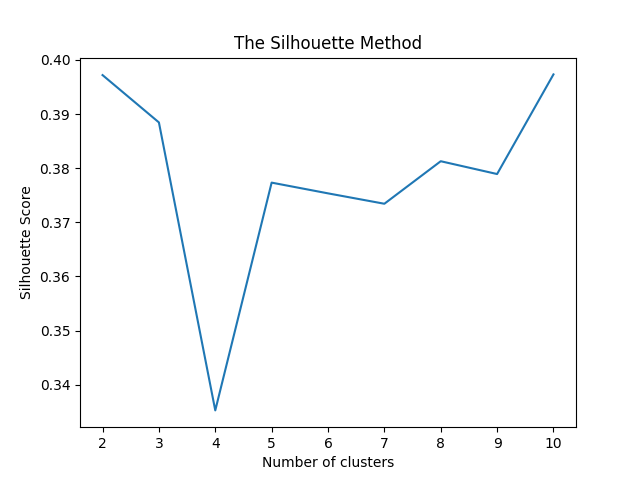
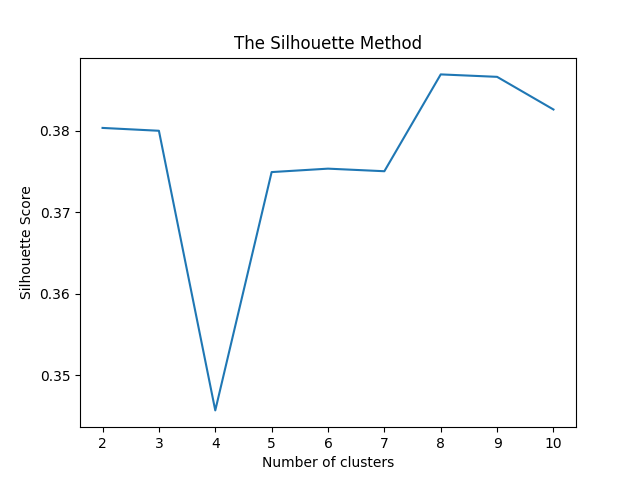
centroids added

diff --git a/data.py b/data.py
@@ -59,7 +59,7 @@ data = pd.DataFrame(x_pca, columns=['Market Cap', 'Price'])
 # use the elbow method to find the optimal number of clusters
 wcss = []
 for i in range(1, 11):
-    kmeans = KMeans(n_clusters=i, init='k-means++', random_state=42)
+    kmeans = KMeans(n_clusters=i, n_init=10, init='k-means++', random_state=42)
     kmeans.fit(data)
     wcss.append(kmeans.inertia_)
 plt.plot(range(1, 11), wcss)
@@ -74,7 +74,7 @@ plt.close()
 from sklearn.metrics import silhouette_score
 silhouette_scores = []
 for n_cluster in range(2, 11):
-    silhouette_scores.append(silhouette_score(data, KMeans(n_clusters=n_cluster).fit_predict(data)))
+    silhouette_scores.append(silhouette_score(data, KMeans(n_init = 10, n_clusters=n_cluster).fit_predict(data)))
 plt.plot(range(2, 11), silhouette_scores)
 plt.title('The Silhouette Method')
 plt.xlabel('Number of clusters')
@@ -84,20 +84,38 @@ plt.show()
 plt.close()
 
 # cluster the data with k = 4
-kmeans = KMeans(n_clusters=4, init='k-means++', random_state=42)
+kmeans = KMeans(n_clusters=4, n_init=10, init='k-means++', random_state=42, max_iter=300)
 kmeans.fit(data)
 data['Cluster'] = kmeans.labels_
 
-# save the data
-data.to_csv('csv/crypto-data-clustered.csv', index=False)
+# calculate the mean of each cluster
+print(data.groupby('Cluster').mean())
+
+# calculate the percentage of tokens in each cluster
+print(data['Cluster'].value_counts(normalize=True))
 
 # show the data with the clusters with x = Market Cap and y = Price
 plt.figure(figsize=(10, 6))
 plt.scatter(data['Market Cap'], data['Price'], c=data['Cluster'], cmap='rainbow')
+
+# show the cluster centers
+plt.scatter(kmeans.cluster_centers_[:, 0], kmeans.cluster_centers_[:, 1], s=30, c='black', label='Centroids')
+
+# set the details of the plot
 plt.xlabel('Market Cap')
 plt.ylabel('Price')
+plt.title('Crypto Data Clusters')
 
 # save the image
 plt.savefig('img/crypto-data-clustered.png')
 plt.show()
 plt.close()
+
+# save the data
+data.to_csv('csv/crypto-data-clustered.csv', index=False)
+
+# label the clusters
+data['Cluster'] = data['Cluster'].map({0: 'HMLP', 1: 'LMHP(Overpriced)', 2: 'LMLP', 3: 'HMHP'})
+
+# save the data
+data.to_csv('csv/crypto-data-analyzed.csv', index=False)
